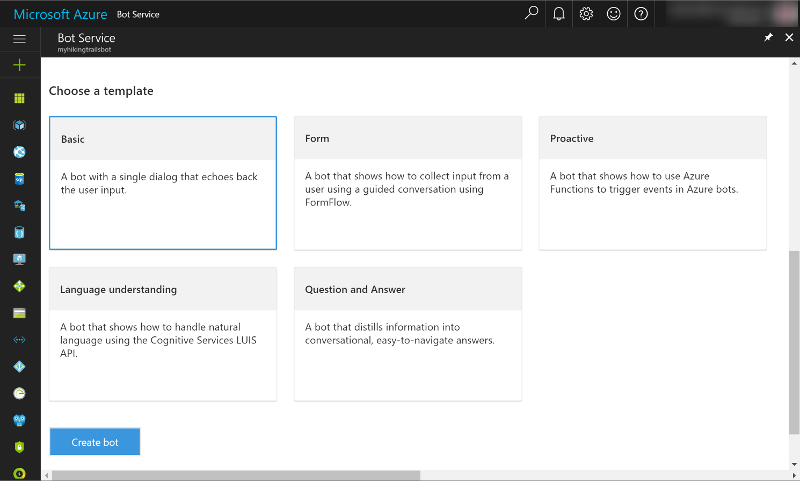
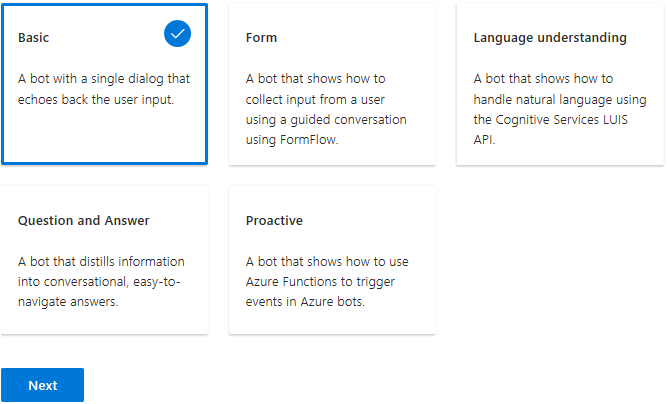
ordering of app id and password step changed to last. (#340)

diff --git a/articles/azure-bot-service-quickstart.md b/articles/azure-bot-service-quickstart.md
@@ -47,8 +47,24 @@ sign in to <a href="https://portal.azure.com" target="_blank">Azure</a> and comp
 
 4. Confirm that the bot service has been deployed.
     - Click **Notifications** (the bell icon that is located along the top edge of the Azure portal). The notification will change from **Deployment started** to **Deployment succeeded**. 
-    - After the notification changes to **Deployment succeeded**, click that notification.<br/><br/>
+    - After the notification changes to **Deployment succeeded**, click **Go to resource** on that notification.<br/><br/>
     ![Azure notification](~/media/azure-bot-service-first-bot-notification.png)
+
+
+### Select your programming language 
+
+Choose the programming language that you want to use to develop your bot.  
+
+![language](~/media/azure-bot-service-coding-language.png)  
+
+### Select a template and create the bot
+
+Select the template to use as the starting point for developing your bot. 
+For this tutorial, choose the **Basic** template. 
+
+![template](~/media/azure-bot-service-template.png)  
+
+Then, click **Next** to create the bot based on the programming language and template that you've chosen. 
 
 ### Create App ID and password  
 
@@ -72,21 +88,7 @@ Next, create an app ID and password for your bot, so that it will be able to aut
 
     ![password](~/media/azure-bot-service-password.png)  
 
-
-### Select your programming language 
-
-Choose the programming language that you want to use to develop your bot.  
-
-![language](~/media/azure-bot-service-coding-language.png)  
-
-### Select a template and create the bot
-
-Select the template to use as the starting point for developing your bot. 
-For this tutorial, choose the **Basic** template. 
-
-![template](~/media/azure-bot-service-template.png)  
-
-Then, click **Create bot** to create the bot based upon the programming language and template that you've chosen. 
+6. Agree to terms, and click **Create bot**.
 
 > [!IMPORTANT]
 > When you click **Create bot**, there may be a slight delay before a splash screen renders to indicate that the bot service is generating your bot. *Do not* click **Create bot** again. Please wait for the splash screen to appear.
@@ -98,6 +100,7 @@ you'll see that your bot is now listed under **My bots**.
 Congratulations! You've successfully created a bot by using the Azure Bot Service! 
 
 ![bot settings in portal](~/media/azure-bot-service-bf-portal.png)
+
 
 ## Test your bot
 
@@ -132,3 +135,7 @@ and verified the bot's functionality by using the built-in chat control within A
 At this point, you may want to [add more functionality](bot-design-principles.md) to your bot or set up [continuous deployment](azure-bot-service-continuous-deployment.md). 
 You can also configure your bot to run on one or more channels and publish your bot, without ever leaving 
 the Azure portal. 
+
+
+
+
